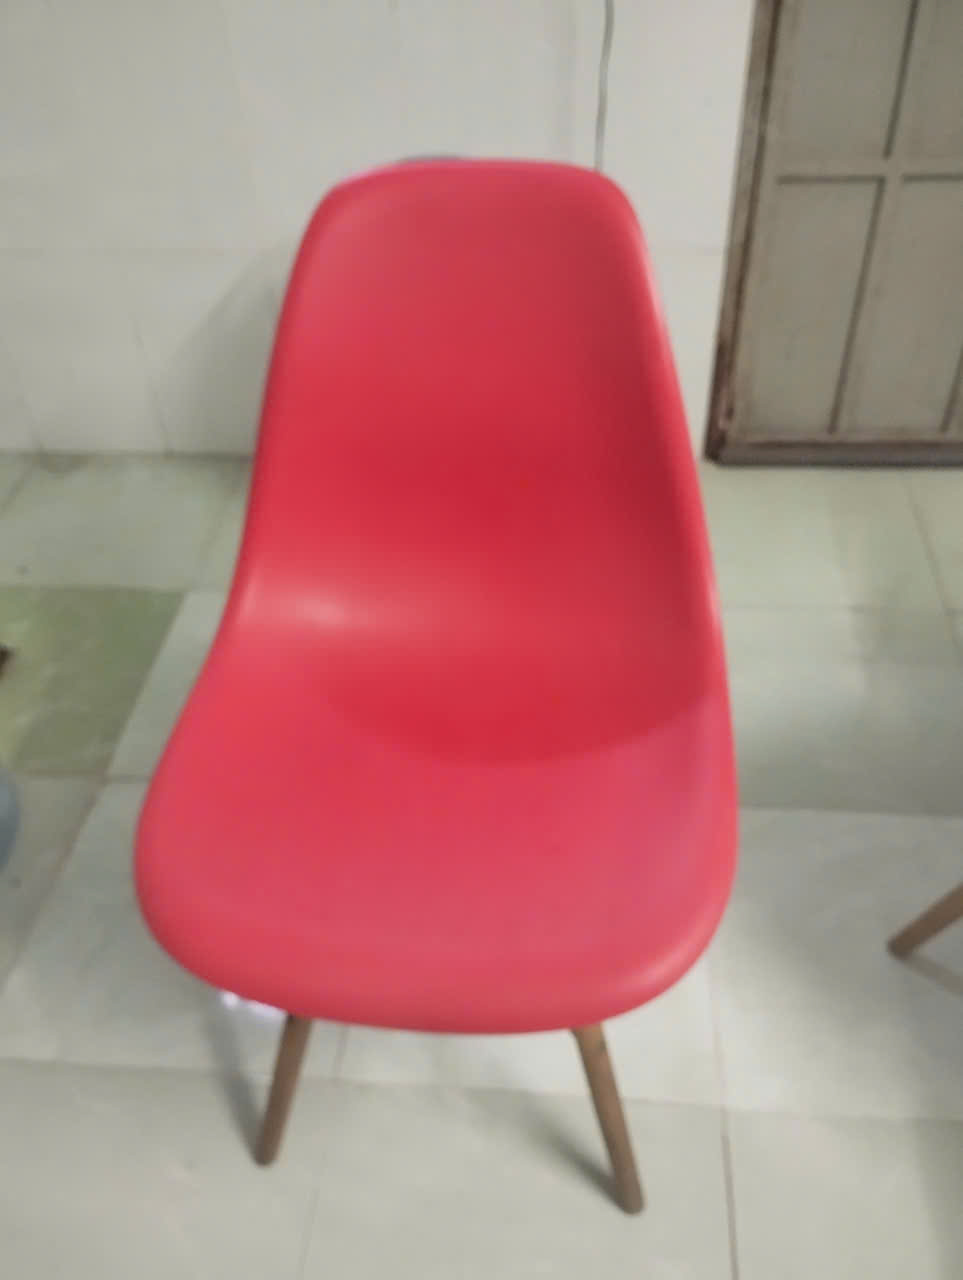
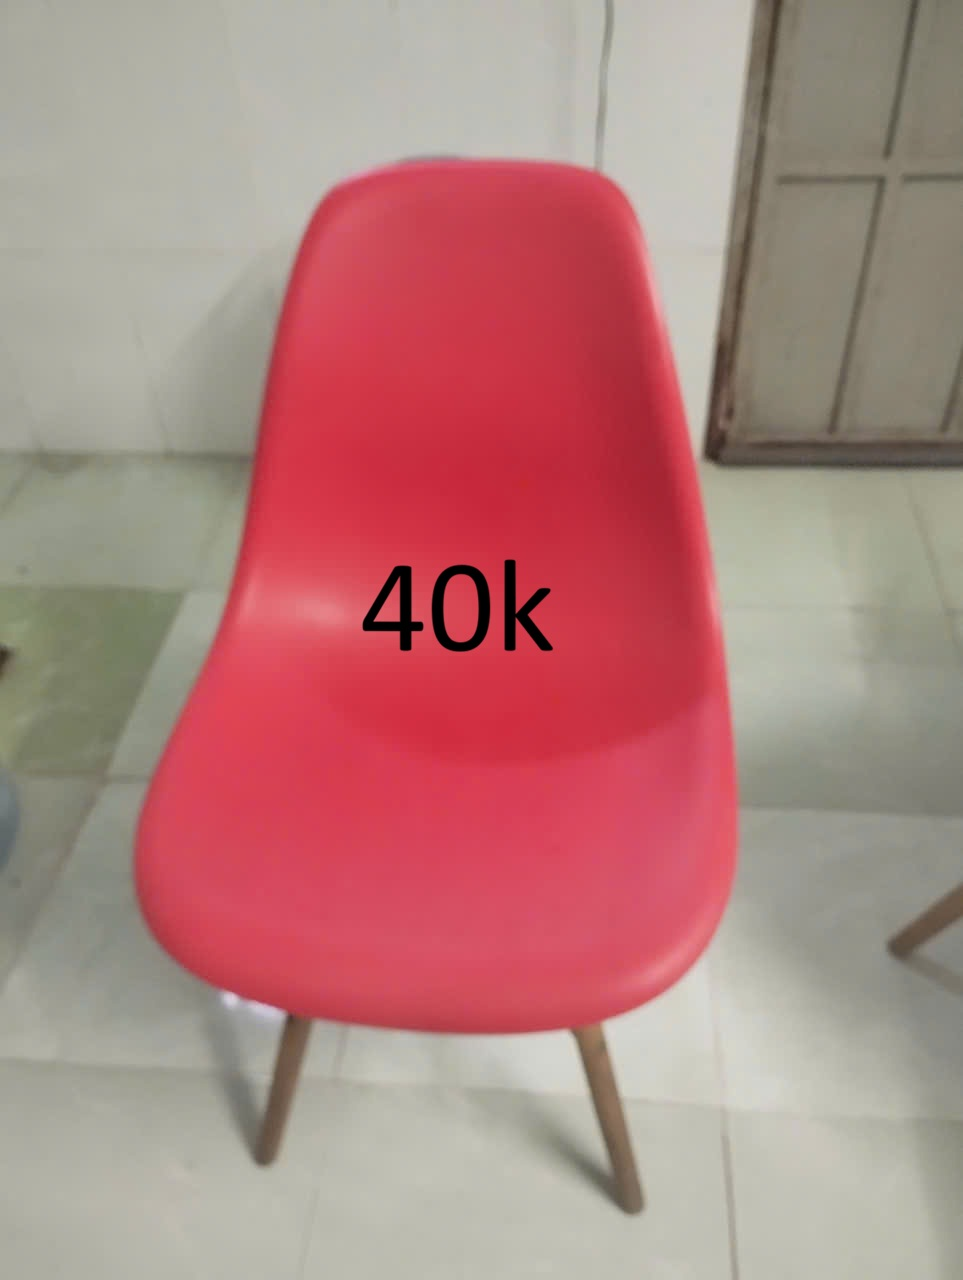
x

Changed region(s): [[0.3738, 0.4375, 0.5607, 0.5312], [0.5607, 0.5, 0.5919, 0.5312]]

diff --git a/data/items.js b/data/items.js
@@ -1,29 +1,29 @@
 // data/items.js
 export const items = [
-  { id: 1, name: "Tủ Lạnh Nhỏ", price: 1500000, image: "/images/tuLanh.jpg", category: "Đồ Điện" },
-  { id: 2, name: "Ấm Siêu Tốc", price: 450000, image: "/images/amSieuToc.jpg", category: "Đồ Điện" },
-  { id: 3, name: "Bàn Chữ Nhật Lớn(gấp được)", price: 250000, image: "/images/banLon.jpg", category: "Bàn Ghế" },
-  { id: 4, name: "Bàn Tròn", price: 350000, image: "/images/banTron.jpg", category: "Bàn Ghế" },
-  { id: 5, name: "Bình Nước(giá gốc 20k + 60k", price: 400000, image: "/images/binhNuoc.jpg", category: "Gia dụng" },
-  { id: 6, name: "Bột Giặt", price: 800000, image: "/images/botGiat.jpg", category: "0đ" },
-  { id: 7, name: "2 Chậu Nhựa(tặng ca + ghế)", price: 150000, image: "/images/chauNhua.jpg", category: "Gia dụng" },
-  { id: 8, name: "Chổi", price: 650000, image: "/images/choi.jpg", category: "Gia dụng" },
-  { id: 9, name: "Chổi Lau Nhà", price: 300000, image: "/images/choiLauNha.jpg", category: "Gia dụng" },
-  { id: 10, name: "Ghế Đỏ(còn 2)", price: 90000, image: "/images/gheDo.jpg", category: "Bàn Ghế" },
-  { id: 11, name: "Ghế Trắng", price: 180000, image: "/images/gheTrang.jpg", category: "Bàn Ghế" },
-  { id: 12, name: "Ghế Xoay(gãy đôi:))", price: 120000, image: "/images/gheXoay.jpg", category: "Bàn Ghế" },
-  { id: 13, name: "Giá Để Bình Nước", price: 50000, image: "/images/giaDeNuoc.jpg", category: "Kệ Để Đồ" },
-  { id: 14, name: "Giá Phơi Đồ", price: 150000, image: "/images/giaPhoiDo.jpg", category: "Kệ Để Đồ" },
-  { id: 15, name: "Giấy", price: 850000, image: "/images/giay.jpg", category: "0đ" },
-  { id: 16, name: "Hót Rác(tặng chổi nhỏ)", price: 350000, image: "/images/hotRac.jpg", category: "Gia dụng" },
-  { id: 17, name: "Kệ Nhựa(gấp được)", price: 200000, image: "/images/keNhua.jpg", category: "Kệ Để Đồ" },
-  { id: 18, name: "Kệ Sắt Lớn", price: 400000, image: "/images/keSatLon.jpg", category: "Kệ Để Đồ" },
-  { id: 19, name: "Kệ Sắt Nhỏ", price: 250000, image: "/images/keSatNho.jpg", category: "Kệ Để Đồ" },
-  { id: 20, name: "20k lộn xộn", price: 300000, image: "/images/lonXon.jpg", category: "Gia dụng" },
-  { id: 21, name: "Mì Tôm(10 gói)", price: 450000, image: "/images/miTom.jpg", category: "0đ" },
-  { id: 22, name: "Nước Tẩy", price: 950000, image: "/images/nuocTay.jpg", category: "0đ" },
-  { id: 23, name: "Piano Go Japan(tặng pedal + sạc)", price: 150000, image: "/images/piano.jpg", category: "Piano" },
-  { id: 24, name: "Rổ", price: 400000, image: "/images/ro.jpg", category: "Gia dụng" },
-  { id: 25, name: "Thùng Rác", price: 180000, image: "/images/thungRac.jpg", category: "Gia dụng" },
-  { id: 26, name: "Túi Lọc Bồn Rửa Chén", price: 200000, image: "/images/tuiLoc.jpg", category: "Gia dụng" },
+  { id: 1, name: "Tủ Lạnh Nhỏ", price: 700000, image: "/images/tuLanh.jpg", category: "Đồ Điện" },
+  { id: 2, name: "Ấm Siêu Tốc", price: 40000, image: "/images/amSieuToc.jpg", category: "Đồ Điện" },
+  { id: 3, name: "Bàn Chữ Nhật Lớn(gấp được)", price: 150000, image: "/images/banLon.jpg", category: "Bàn Ghế" },
+  { id: 4, name: "Bàn Tròn", price: 120000, image: "/images/banTron.jpg", category: "Bàn Ghế" },
+  { id: 5, name: "Bình Nước(giá gốc 20k + 60k", price: 40000, image: "/images/binhNuoc.jpg", category: "Gia dụng" },
+  { id: 6, name: "Bột Giặt", price: 0, image: "/images/botGiat.jpg", category: "0đ" },
+  { id: 7, name: "2 Chậu Nhựa(tặng ca + ghế)", price: 30000, image: "/images/chauNhua.jpg", category: "Gia dụng" },
+  { id: 8, name: "Chổi", price: 15000, image: "/images/choi.jpg", category: "Gia dụng" },
+  { id: 9, name: "Chổi Lau Nhà", price: 20000, image: "/images/choiLauNha.jpg", category: "Gia dụng" },
+  { id: 10, name: "Ghế Đỏ(còn 2)", price: 40000, image: "/images/gheDo.jpg", category: "Bàn Ghế" },
+  { id: 11, name: "Ghế Trắng", price: 30000, image: "/images/gheTrang.jpg", category: "Bàn Ghế" },
+  { id: 12, name: "Ghế Xoay(gãy đôi:))", price: 20000, image: "/images/gheXoay.jpg", category: "Bàn Ghế" },
+  { id: 13, name: "Giá Để Bình Nước", price: 20000, image: "/images/giaDeNuoc.jpg", category: "Kệ Để Đồ" },
+  { id: 14, name: "Giá Phơi Đồ", price: 30000, image: "/images/giaPhoiDo.jpg", category: "Kệ Để Đồ" },
+  { id: 15, name: "Giấy", price: 0, image: "/images/giay.jpg", category: "0đ" },
+  { id: 16, name: "Hót Rác(tặng chổi nhỏ)", price: 15000, image: "/images/hotRac.jpg", category: "Gia dụng" },
+  { id: 17, name: "Kệ Nhựa(gấp được)", price: 40000, image: "/images/keNhua.jpg", category: "Kệ Để Đồ" },
+  { id: 18, name: "Kệ Inox Lớn", price: 150000, image: "/images/keSatLon.jpg", category: "Kệ Để Đồ" },
+  { id: 19, name: "Kệ Inox Nhỏ", price: 90000, image: "/images/keSatNho.jpg", category: "Kệ Để Đồ" },
+  { id: 20, name: "20k lộn xộn", price: 20000, image: "/images/lonXon.jpg", category: "Gia dụng" },
+  { id: 21, name: "Mì Tôm(10 gói)", price: 0, image: "/images/miTom.jpg", category: "0đ" },
+  { id: 22, name: "Nước Tẩy", price: 0, image: "/images/nuocTay.jpg", category: "0đ" },
+  { id: 23, name: "Piano Go Japan(tặng pedal + sạc)", price: 850000, image: "/images/piano.jpg", category: "Piano" },
+  { id: 24, name: "Rổ", price: 20000, image: "/images/ro.jpg", category: "Gia dụng" },
+  { id: 25, name: "Thùng Rác", price: 30000, image: "/images/thungRac.jpg", category: "Gia dụng" },
+  { id: 26, name: "Túi Lọc Bồn Rửa Chén", price: 0, image: "/images/tuiLoc.jpg", category: "0đ" },
 ];
